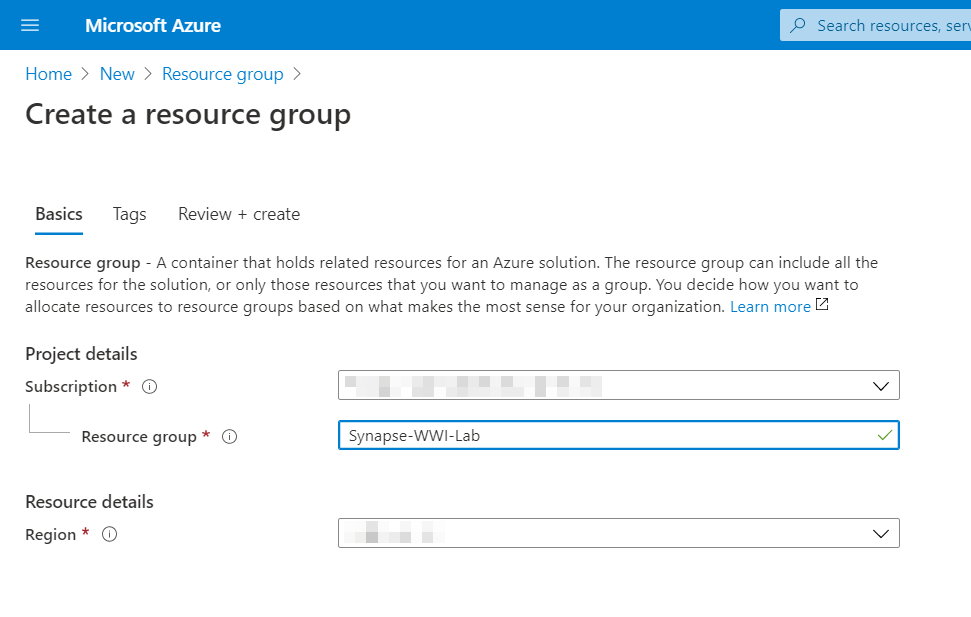
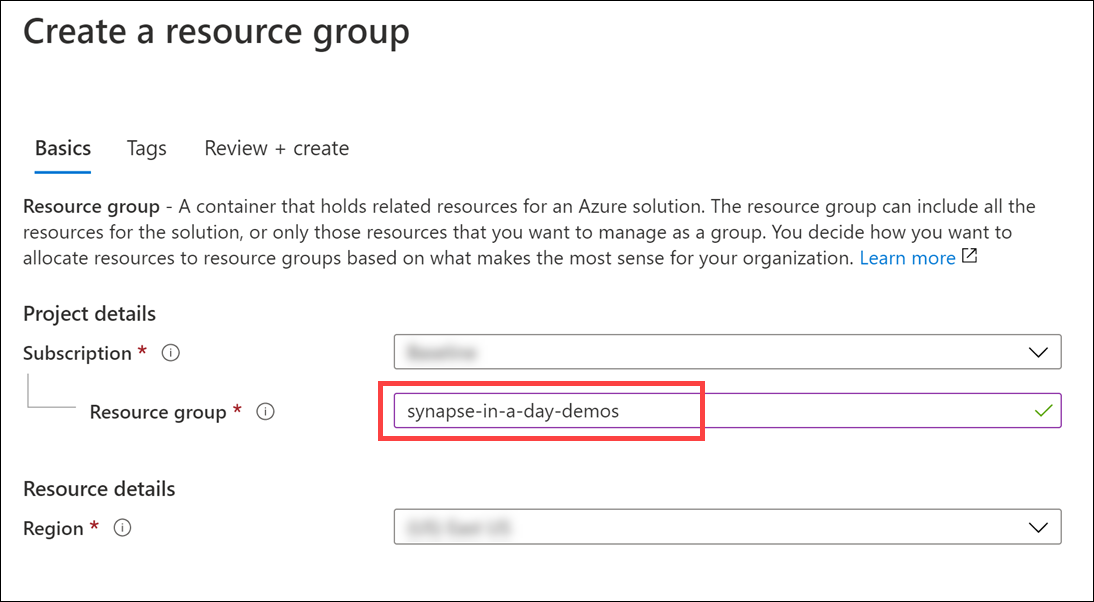
Setup instructions

diff --git a/artifacts/environment-setup/automation/README.md b/artifacts/environment-setup/automation/README.md
@@ -16,7 +16,7 @@
 
 4. Select the **Create** button on the **Resource group** overview page.
 
-5. On the **Create a resource group** screen, select your desired Subscription and Region. For Resource group, enter **Synapse-WS-L400**, then select the **Review + Create** button.
+5. On the **Create a resource group** screen, select your desired Subscription and Region. For Resource group, enter **synapse-in-a-day-demos**, then select the **Review + Create** button.
 
     ![The Create a resource group form is displayed populated with Synapse-MCW as the resource group name.](../media/bhol_resourcegroupform.png)
 
@@ -31,7 +31,7 @@
 2. On the **Custom deployment** form fill in the fields described below.
 
 * **Subscription**: Select your desired subscription for the deployment.
-* **Resource group**: Select the **Synapse-WS-L400** resource group you previously created.
+* **Resource group**: Select the **synapse-in-a-day-demos** resource group you previously created.
 * **Unique Suffix**: This unique suffix will be used naming resources that will created as part of your deployment.
 * **SQL Administrator Login Password**: Provide a strong password for the SQLPool that will be created as part of your deployment. Your password will be needed during the next steps. Make sure you have your password noted and secured.
   

diff --git a/README.md b/README.md
@@ -9,7 +9,7 @@ Demos and labs for Synapse in a Day content.
 
 ## Setup
 
-Follow the [demo setup instructions](demos/setup/README.md).
+Follow the [demo setup instructions](artifacts/environment-setup/automation/README.md).
 
 ## Demos
 
